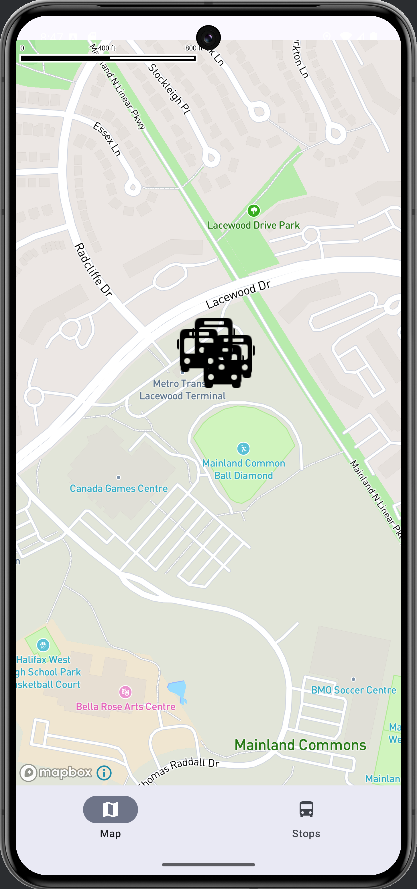
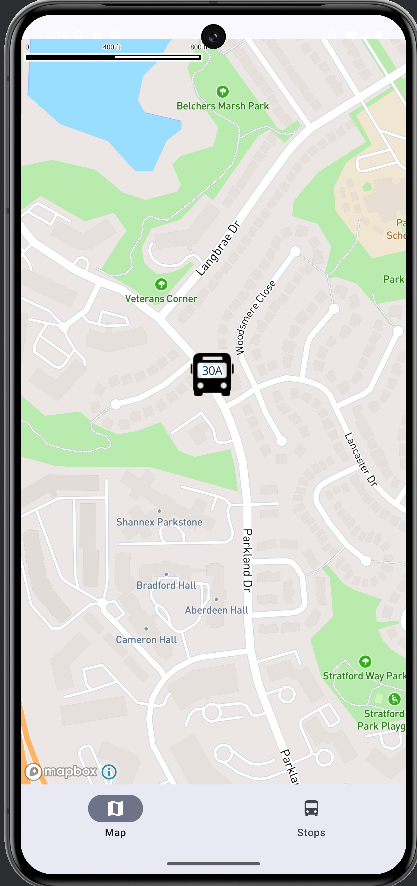
finished transitapp and added new screenshots and bus route numbers

diff --git a/app/src/main/java/com/example/transitapp/ui/screens/MapScreen.kt b/app/src/main/java/com/example/transitapp/ui/screens/MapScreen.kt
@@ -90,13 +90,21 @@ fun MapScreen(viewModel: MainViewModel) {
                     if (vehicle.hasPosition()) {
                         val lat = vehicle.position.latitude
                         val lon = vehicle.position.longitude
-                        Log.d("BUS", "Bus at: $lat, $lon")
+                        val route = vehicle.trip.routeId ?: "?"
 
                         val point = Point.fromLngLat(lon.toDouble(), lat.toDouble())
 
                         val options = PointAnnotationOptions()
                             .withPoint(point)
                             .withIconImage(imageId)
+                            .withTextField(route)
+                            .withTextSize(14.0)
+                            .withTextOffset(listOf(0.0, -0.35))
+                            .withTextColor("#003366")
+                            .withTextHaloColor("#FFFFFF")
+                            .withTextHaloWidth(2.5)
+
+
 
                         pointAnnotationManager.create(options)
                     }
